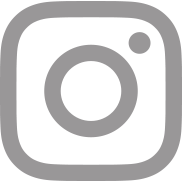
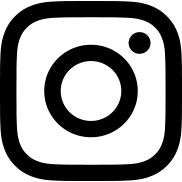
.

diff --git a/index.html b/index.html
@@ -204,12 +204,12 @@ font-family: 'Helvetica', 'Open Sans', sans-serif;
 		
 .centered {
     position: absolute;
-    top: 95%;
-    left: 50%;
-    transform: translate(-50%, -50%);
+    top: 85%;
+    width: 100%;
+	text-align: center;
     font-family: 'Lato', sans-serif;
 	text-decoration: none;
-	font-size: 10px;
+	font-size: 12px;
 }
 
 		
@@ -234,8 +234,13 @@ font-family: 'Helvetica', 'Open Sans', sans-serif;
 		    	display: none;
 		    }
 .centered {
-    top: 90%;
-    font-size: 30px;
+    top: 80%;
+    font-size: 40px;
+}
+
+.centered img {
+    min-width: 50px;
+    min-height: 50px;
 }
 		}
 	</style>
@@ -246,7 +251,20 @@ font-family: 'Helvetica', 'Open Sans', sans-serif;
 
 	<div class="overlay" id="hide">
 		<img style="height: 150px;width: 150px;margin-left: calc(50% - 75px);margin-top: 30vh;" src="img/SUSPEITO3.gif">
-		<div class="centered">Our website is still under development.<br>Please contact us via email: colectivo.suspeito@gmail.com</div>
+		<div class="centered">
+<a href="mailto:colectivo.suspeito@gmail.com">
+	<img src="img/mail.png" style="height: 15px;width: 15px;margin-left: calc(50% - 37.5px)">
+</a>
+<a href="https://www.facebook.com/colectivo.suspeito/" target="_blank">
+	<img src="img/facebook.png" style="height: 15px;width: 15px;margin-left:15px">
+</a>
+<a href="https://www.instagram.com/colectivo.suspeito/" target="_blank">
+	<img src="img/instagram.png" style="height: 15px;width: 15px;margin-left: 15px"">
+</a>
+<br><br>
+Poke the logo to enter.
+<br>
+<i>Website under development.</i></div>
 	</div>
 
 	<header>
